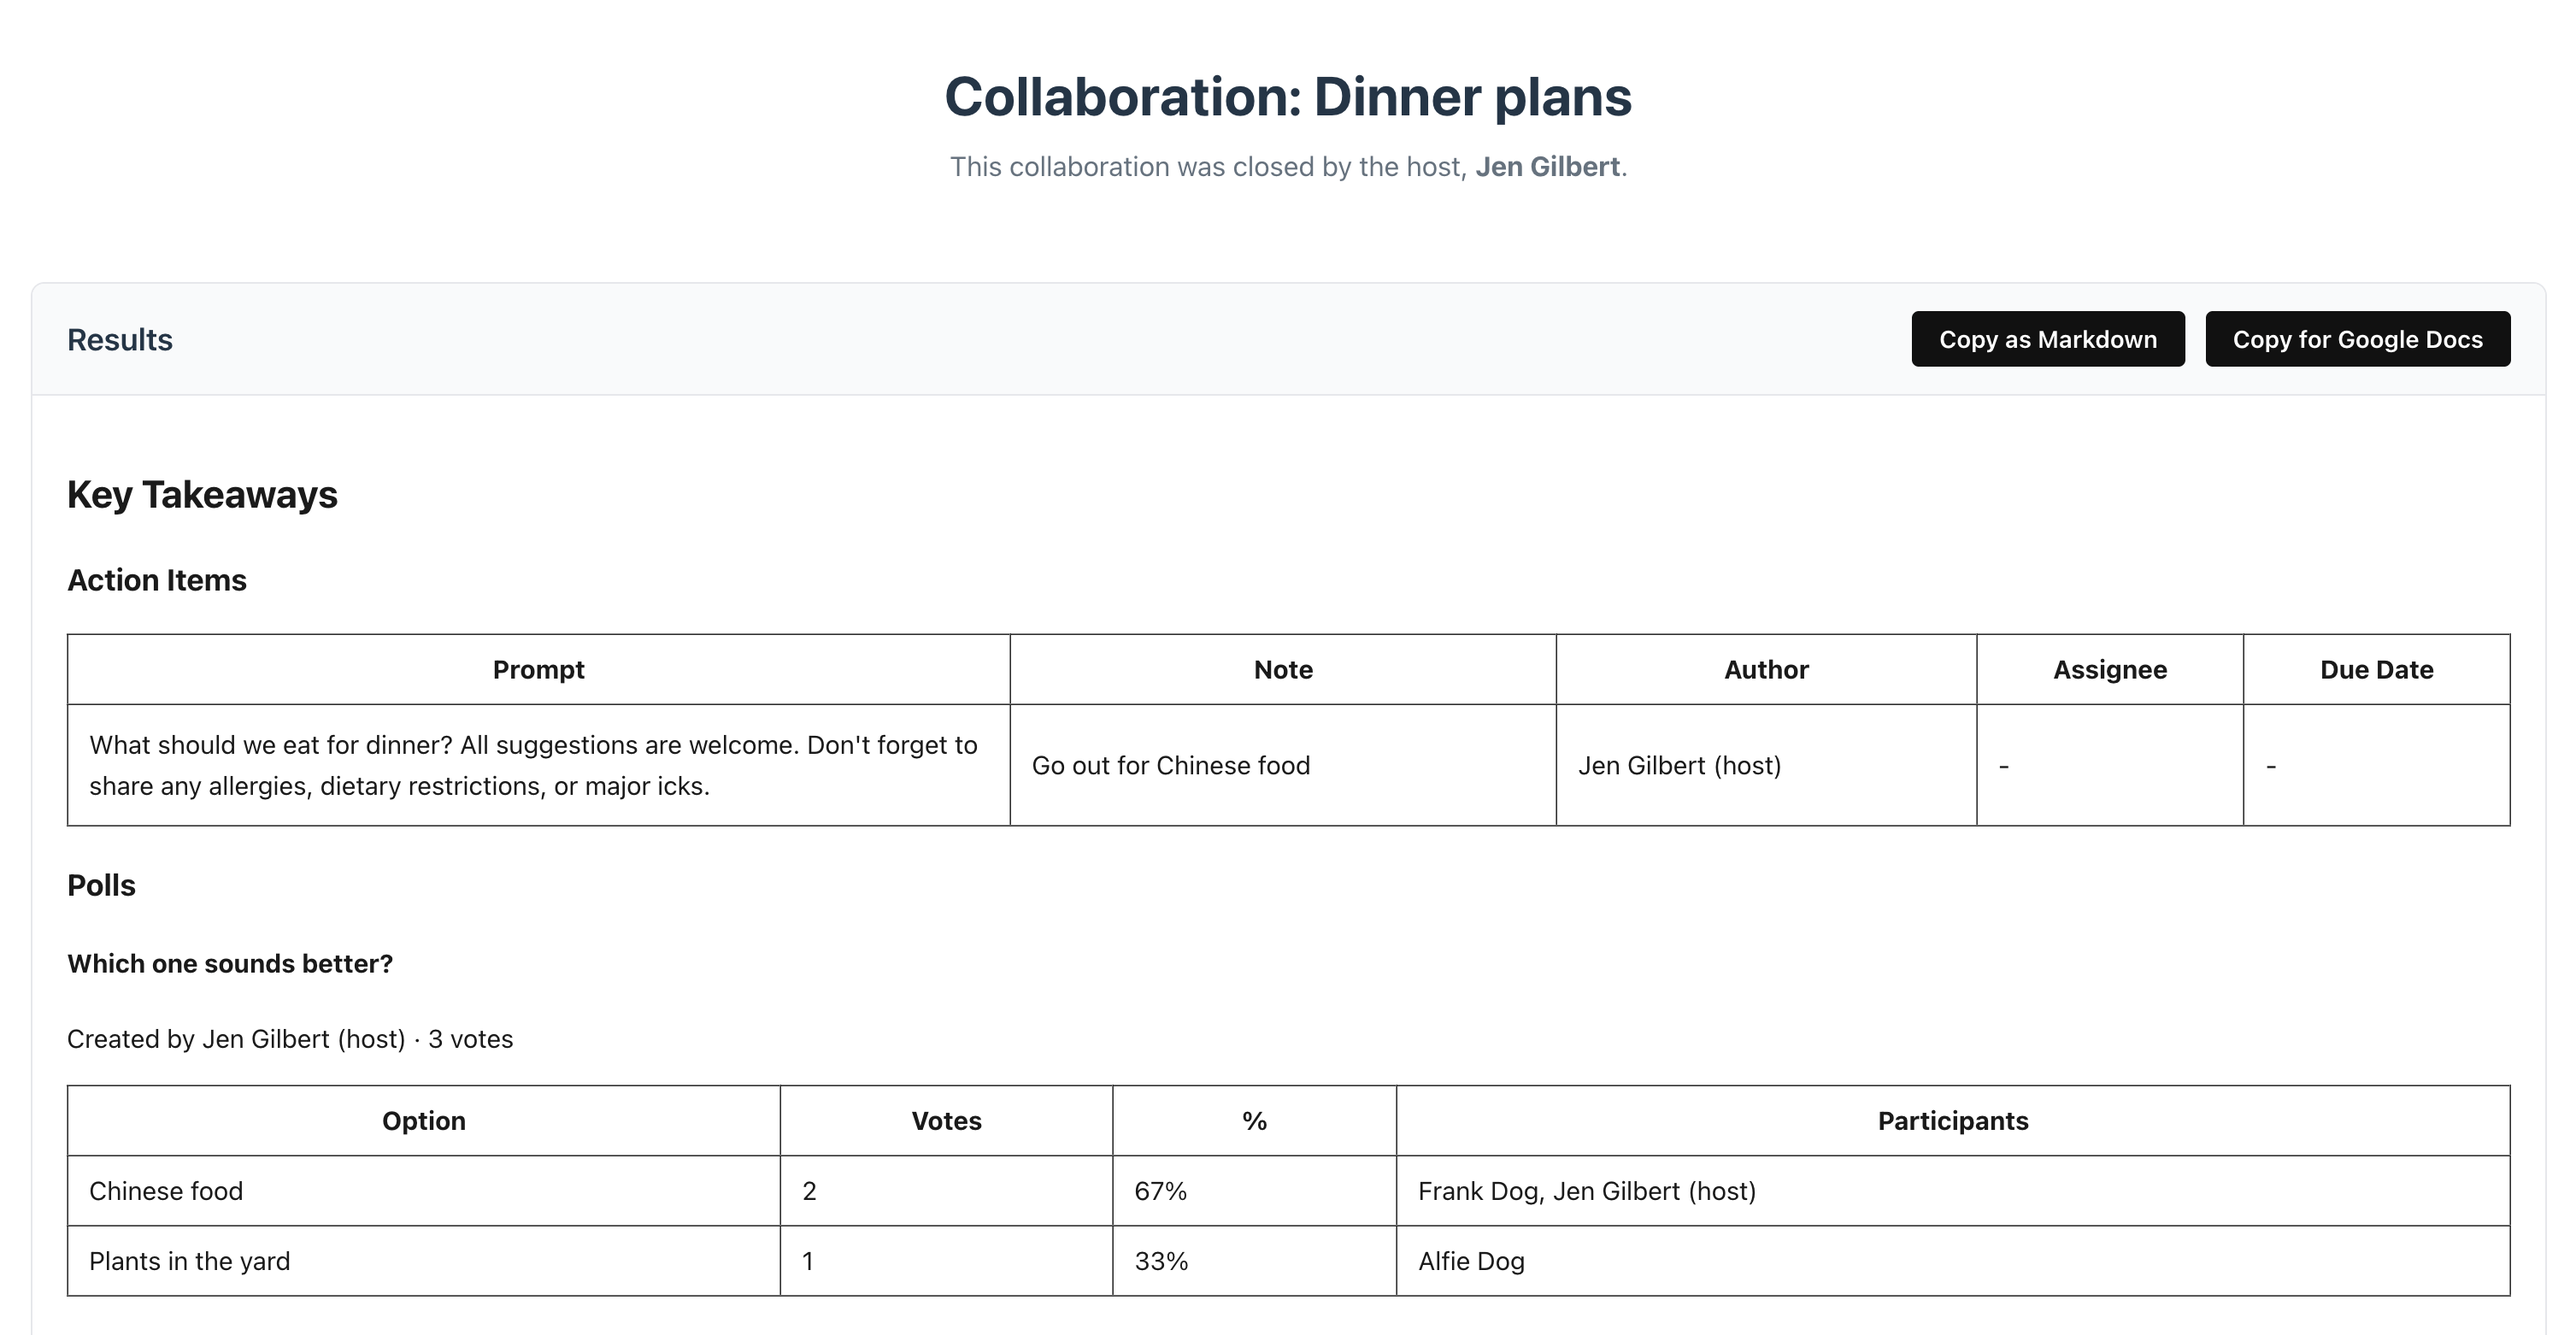
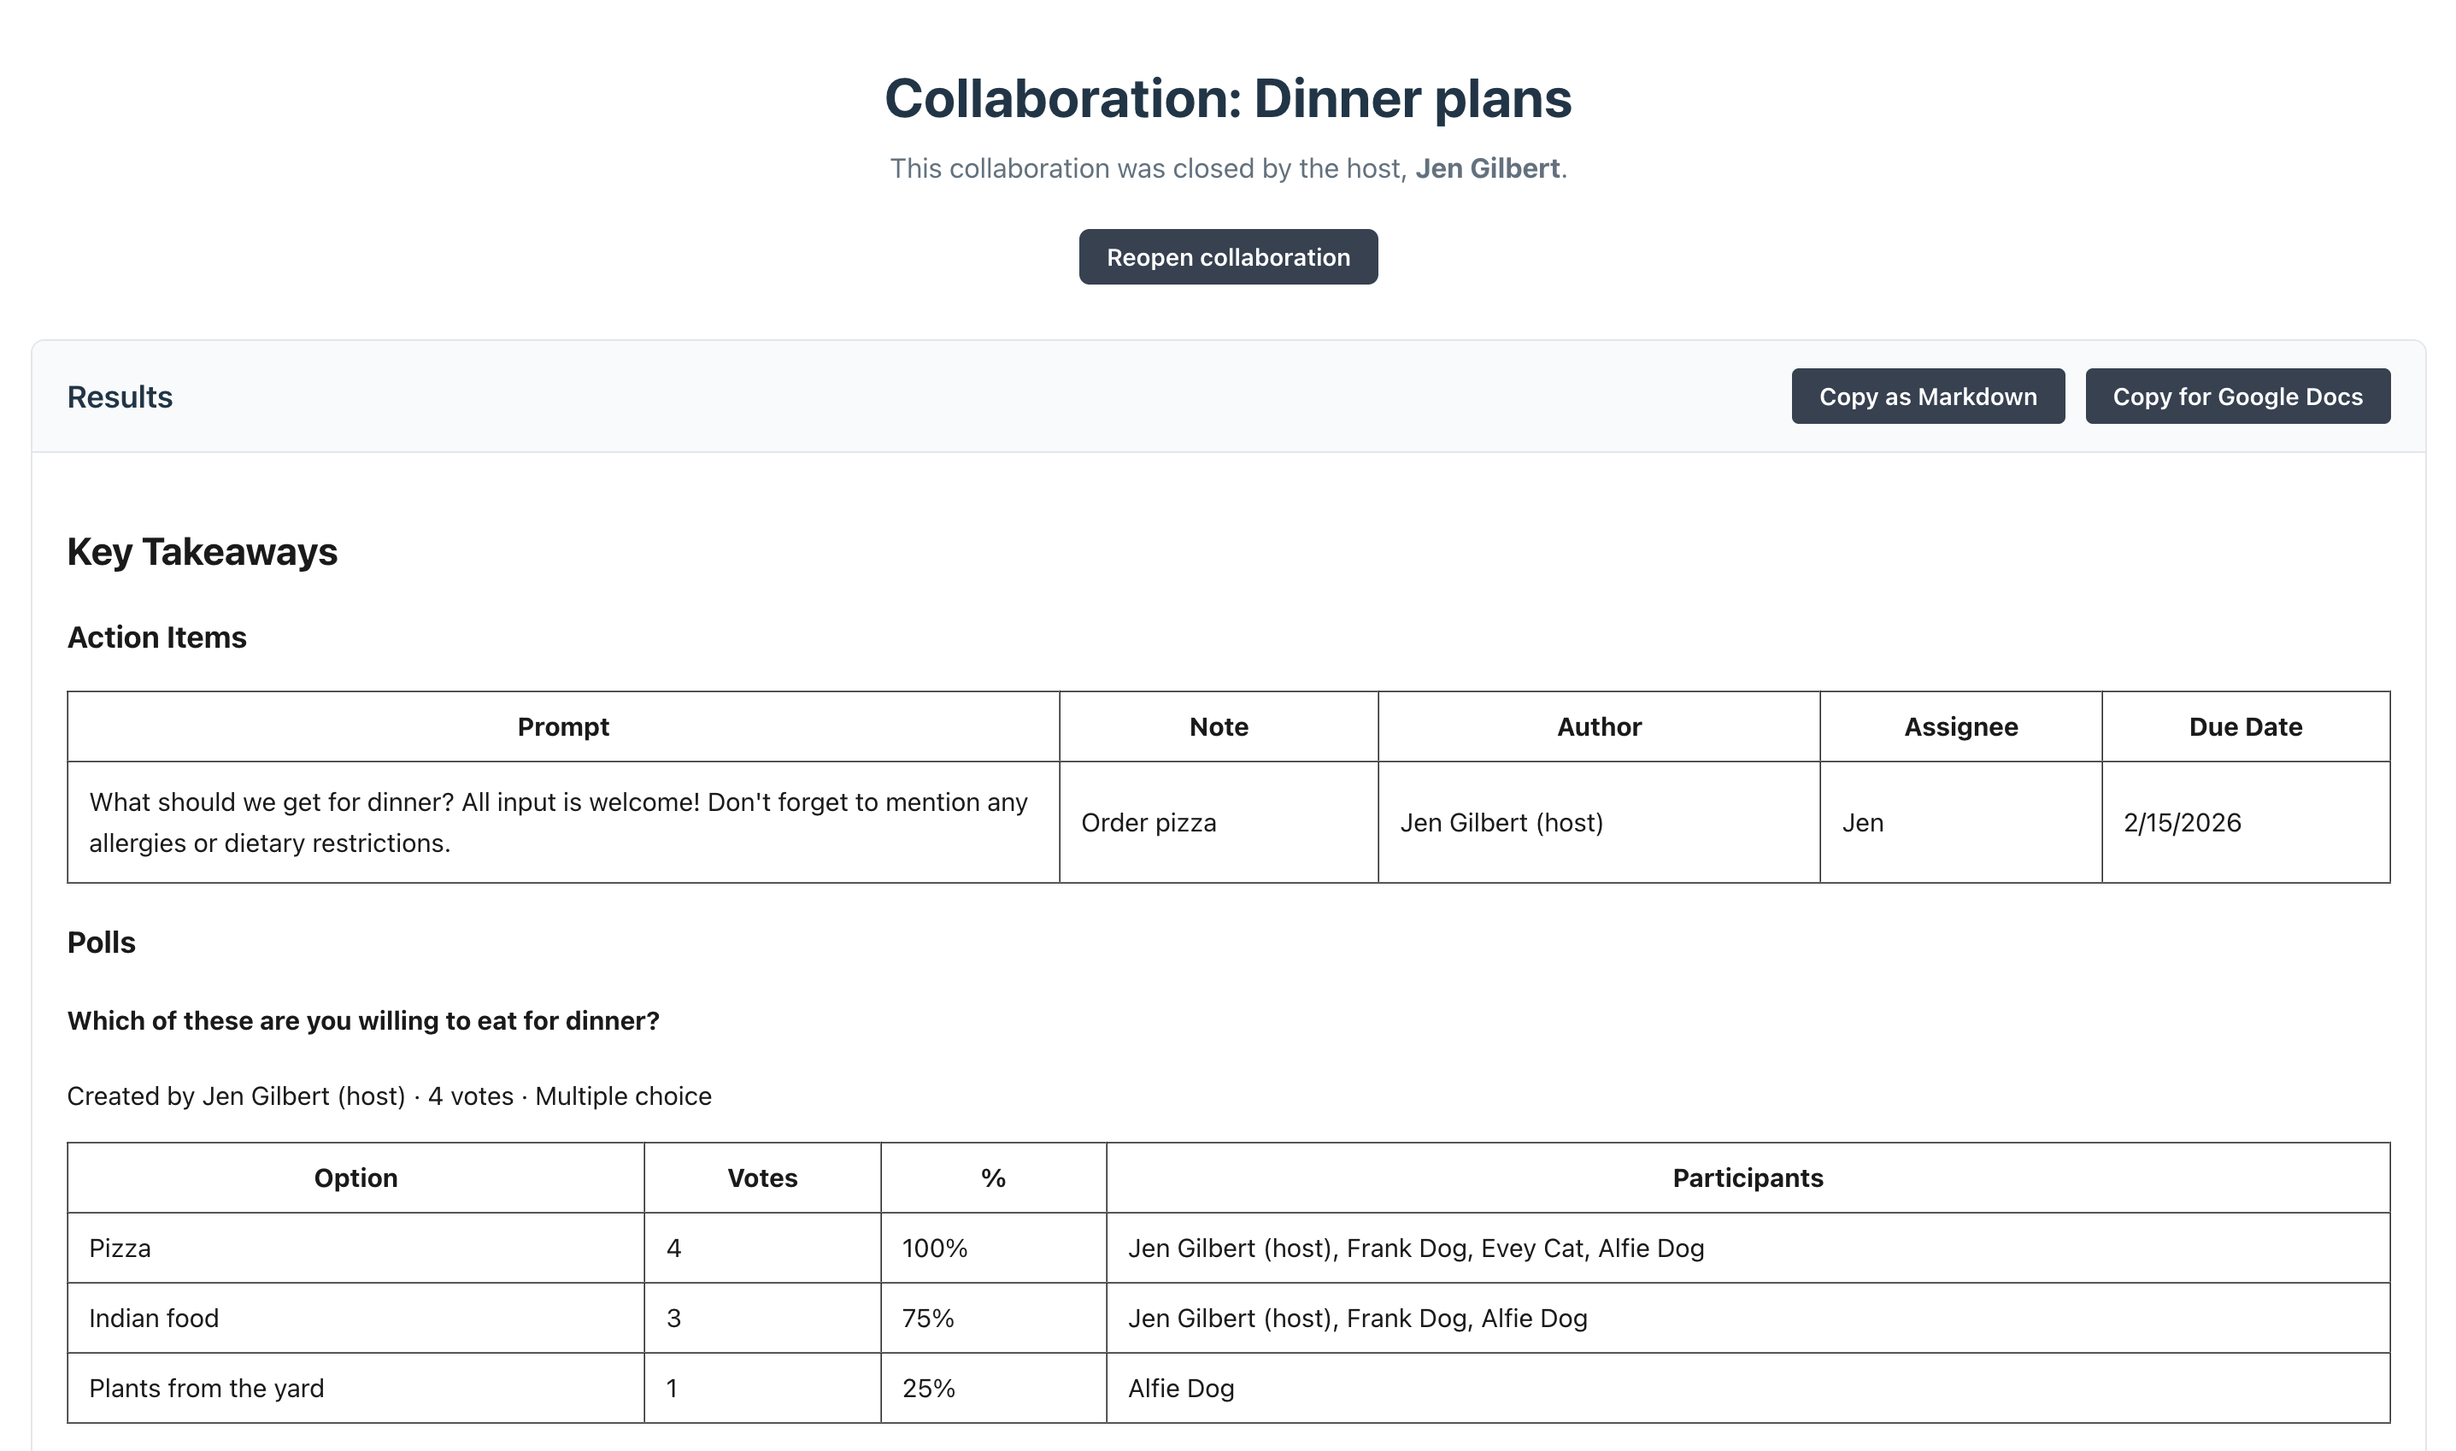
Update screenshots with some design tweaks along the way

diff --git a/src/components/UsersRoute/UsersRoute.tsx b/src/components/UsersRoute/UsersRoute.tsx
@@ -1,5 +1,5 @@
 import { useEffect, useState } from "react";
-import { useNavigate, useParams } from "react-router-dom";
+import { Link, useNavigate, useParams } from "react-router-dom";
 import { getSession } from "../../session";
 import {
   revokeParticipant,
@@ -292,14 +292,20 @@ export default function UsersRoute() {
   return (
     <div className={styles.container}>
       <div className={styles.usersPage}>
-        <div className={styles.usersHeader}>
-          <button
-            onClick={() => navigate(`/collabs/${id}`)}
-            className={styles.backButton}
-          >
-            ← Back to collaboration
-          </button>
-          <h1>Participants ({users.length})</h1>
+        <div className={styles.usersHeaderRow}>
+          <div className={styles.usersHeader}>
+            <button
+              onClick={() => navigate(`/collabs/${id}`)}
+              className={styles.backButton}
+            >
+              ← Back to collaboration
+            </button>
+            <h1>Participants ({users.length})</h1>
+          </div>
+          <div className={styles.userMenu}>
+            <span className={styles.userEmail}>{session.email}</span>
+            <Link to="/logout" className={styles.signOutLink}>Sign out</Link>
+          </div>
         </div>
         <div className={styles.usersContent}>
           <table className={styles.usersTable}>

diff --git a/src/components/CollabRoute/CollabRoute.module.css b/src/components/CollabRoute/CollabRoute.module.css
@@ -199,6 +199,29 @@
   color: #fff;
 }
 
+.userMenu {
+  display: flex;
+  flex-direction: column;
+  align-items: flex-end;
+  margin-left: 16px;
+}
+
+.userEmail {
+  font-size: 12px;
+  color: #6b7280;
+}
+
+.buttonLogout {
+  font-size: 12px;
+  color: #6b7280;
+  text-decoration: none;
+  cursor: pointer;
+}
+
+.buttonLogout:hover {
+  text-decoration: underline;
+}
+
 .buttonToggle {
   padding: 6px 14px;
   font-size: 13px;
@@ -503,10 +526,10 @@
 }
 
 .resumeButton {
-  padding: 12px 32px;
-  font-size: 16px;
+  padding: 8px 16px;
+  font-size: 14px;
   font-weight: 600;
-  background: #111;
+  background: #374151;
   color: #fff;
   border: none;
   border-radius: 6px;
@@ -514,7 +537,7 @@
 }
 
 .resumeButton:hover {
-  background: #333;
+  background: #4b5563;
 }
 
 .stoppedReport {
@@ -552,7 +575,7 @@
   padding: 8px 16px;
   font-size: 14px;
   font-weight: 600;
-  background: #111;
+  background: #374151;
   color: #fff;
   border: none;
   border-radius: 4px;
@@ -560,7 +583,7 @@
 }
 
 .copyButton:hover {
-  background: #333;
+  background: #4b5563;
 }
 
 .reportContent {

diff --git a/src/components/StartScreen/StartScreen.tsx b/src/components/StartScreen/StartScreen.tsx
@@ -1,7 +1,7 @@
 import ReactQuill from "react-quill-new";
 import "react-quill-new/dist/quill.snow.css";
 import { useEffect, useState } from "react";
-import { useNavigate } from "react-router-dom";
+import { Link, useNavigate } from "react-router-dom";
 import { getSession } from "../../session";
 import { startCollaboration } from "../../collaborations";
 import { type NoteType } from "../../notes";
@@ -111,7 +111,8 @@ export default function StartScreen() {
         })}
       </h1>
       <p className={styles.startScreenUser}>
-        Logged in as <b>{session.displayName}</b>
+        Signed in as <b>{session.displayName}</b>.{" "}
+        <Link to="/logout" className={styles.signOutLink}>Sign out</Link>
       </p>
       <form onSubmit={handleStart} className={styles.startScreenForm}>
         <label className={styles.startScreenLabel}>

diff --git a/src/App.tsx b/src/App.tsx
@@ -6,6 +6,7 @@ import StartScreen from "./components/StartScreen/StartScreen";
 import CollabsListScreen from "./components/CollabsListScreen/CollabsListScreen";
 import CollabRoute from "./components/CollabRoute/CollabRoute";
 import UsersRoute from "./components/UsersRoute/UsersRoute";
+import LogoutRoute from "./components/LogoutRoute/LogoutRoute";
 
 export default function App() {
   const [authReady, setAuthReady] = useState(false);
@@ -30,6 +31,7 @@ export default function App() {
       <Route path="/collabs" element={<CollabsListScreen />} />
       <Route path="/collabs/:id" element={<CollabRoute />} />
       <Route path="/collabs/:id/users" element={<UsersRoute />} />
+      <Route path="/logout" element={<LogoutRoute />} />
       <Route path="*" element={<Navigate to="/" replace />} />
     </Routes>
   );

diff --git a/src/components/CollabRoute/CollabRoute.tsx b/src/components/CollabRoute/CollabRoute.tsx
@@ -1,5 +1,5 @@
 import { useCallback, useEffect, useMemo, useRef, useState } from "react";
-import { Navigate, useNavigate, useParams } from "react-router-dom";
+import { Link, Navigate, useNavigate, useParams } from "react-router-dom";
 import { getSession } from "../../session";
 import {
   createNote,
@@ -339,6 +339,10 @@ export default function CollabRoute() {
               </button>
             </>
           )}
+          <div className={styles.userMenu}>
+            <span className={styles.userEmail}>{session.email}</span>
+            <Link to="/logout" className={styles.buttonLogout}>Sign out</Link>
+          </div>
         </div>
       </div>
 

diff --git a/src/components/StickyNote/StickyNote.module.css b/src/components/StickyNote/StickyNote.module.css
@@ -10,7 +10,7 @@
 }
 
 .stickyNote[data-grouped="true"] {
-  border-left: 6px solid #111;
+  border-left: 2px solid #111;
   background: #f9fafb;
 }
 
@@ -221,6 +221,10 @@
   opacity: 0.7;
 }
 
+.pollOption[data-disabled="true"][data-voted="true"] {
+  opacity: 1;
+}
+
 .pollOptionCount {
   font-size: 13px;
   font-weight: 600;
@@ -294,6 +298,10 @@
   background: #fff;
   color: #111;
   margin-bottom: 8px;
+}
+
+.editEditor :global(.ql-editor) {
+  font-size: 16px;
 }
 
 .editActions {
@@ -415,6 +423,10 @@
   background: #fff;
   color: #111;
   margin-bottom: 8px;
+}
+
+.responseEditor :global(.ql-editor) {
+  font-size: 16px;
 }
 
 .responseActions {

diff --git a/src/components/UsersRoute/UsersRoute.module.css b/src/components/UsersRoute/UsersRoute.module.css
@@ -21,8 +21,36 @@
   padding: 40px 20px;
 }
 
-.usersHeader {
+.usersHeaderRow {
+  display: flex;
+  justify-content: space-between;
+  align-items: flex-start;
   margin-bottom: 30px;
+}
+
+.usersHeader {
+}
+
+.userMenu {
+  display: flex;
+  flex-direction: column;
+  align-items: flex-end;
+  padding-top: 4px;
+}
+
+.userEmail {
+  font-size: 12px;
+  color: #6b7280;
+}
+
+.signOutLink {
+  font-size: 12px;
+  color: #6b7280;
+  text-decoration: none;
+}
+
+.signOutLink:hover {
+  text-decoration: underline;
 }
 
 .usersHeader h1 {

diff --git a/src/components/LogoutRoute/LogoutRoute.tsx b/src/components/LogoutRoute/LogoutRoute.tsx
@@ -1,0 +1,15 @@
+import { useEffect } from "react";
+import { useNavigate } from "react-router-dom";
+import { logout } from "../../session";
+
+export default function LogoutRoute() {
+  const navigate = useNavigate();
+
+  useEffect(() => {
+    logout().then(() => {
+      navigate("/login", { replace: true });
+    });
+  }, [navigate]);
+
+  return null;
+}

diff --git a/src/components/StickyNote/StickyNote.tsx b/src/components/StickyNote/StickyNote.tsx
@@ -661,6 +661,7 @@ export default function StickyNote({
                       handleAddResponse();
                     }}
                     className={styles.responseSave}
+                    style={{ background: color }}
                   >
                     Send
                   </button>

diff --git a/src/components/StartScreen/StartScreen.module.css b/src/components/StartScreen/StartScreen.module.css
@@ -39,6 +39,11 @@
   font-size: 14px;
 }
 
+.signOutLink {
+  color: inherit;
+  text-decoration: underline;
+}
+
 .startScreenForm {
   width: 100%;
   max-width: 600px;

diff --git a/src/components/NoteTypePanel/NoteTypePanel.module.css b/src/components/NoteTypePanel/NoteTypePanel.module.css
@@ -74,6 +74,10 @@
   color: #111;
 }
 
+.noteTypePanelEditor :global(.ql-editor) {
+  font-size: 16px;
+}
+
 .actionItemFields {
   margin-top: 12px;
   display: flex;

diff --git a/README.md b/README.md
@@ -46,6 +46,10 @@ Participants can
 
 Any of these actions will dismiss the note from their inbox.
 
+In addition to the above, the host can also group duplicate notes by dragging and dropping them on top of one another.
+
+![Inbox responses](screenshots/inbox_responses.png)
+
 ### 4. The host guides the conversation
 
 The host can act as a participant, but also has additional facilitation privileges.
